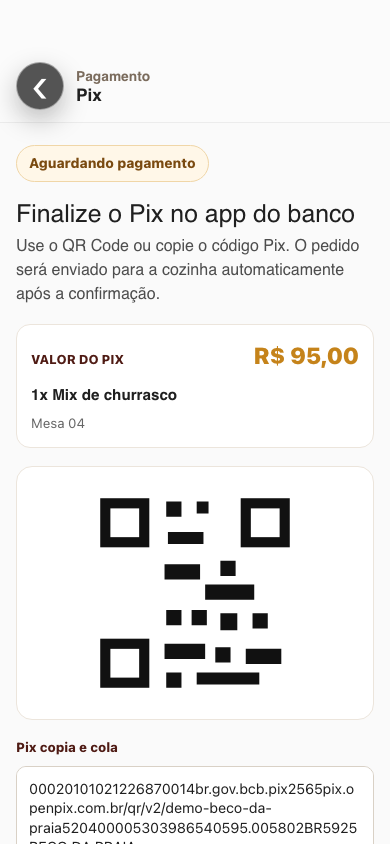
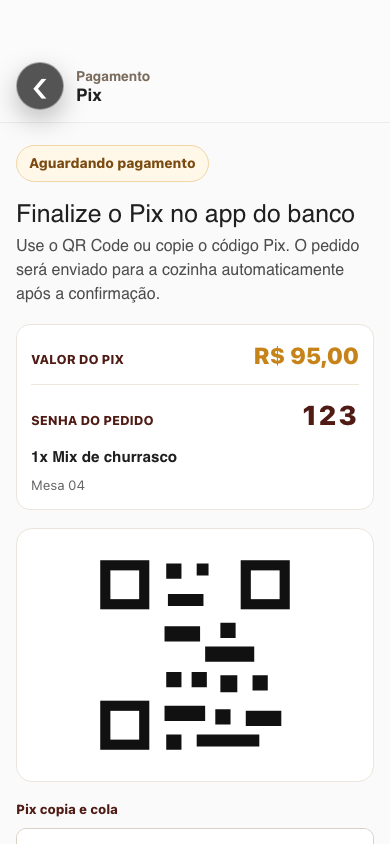
feat: add numeric order password

diff --git a/orders.js b/orders.js
@@ -183,15 +183,18 @@
                 <h2>Pedido enviado para a cozinha</h2>
                 <p>Agora é só aguardar. A equipe já recebeu os detalhes do seu pedido.</p>
                 <div class="sucesso-pedido">
-                    <span>Número do pedido</span>
-                    <strong id="sucesso-order-id"></strong>
+                    <span>Senha do pedido</span>
+                    <strong id="sucesso-order-password"></strong>
+                    <small>Número do pedido: <b id="sucesso-order-id"></b></small>
                 </div>
                 <div class="sucesso-orientacao" id="sucesso-orientacao"></div>
+                <button type="button" id="sucesso-salvar" class="sucesso-salvar">Salvar número do pedido</button>
                 <button type="button" id="sucesso-voltar" class="sucesso-voltar">Voltar ao cardápio</button>
             </div>
         `;
         document.getElementById('app').appendChild(success);
         document.getElementById('sucesso-voltar').addEventListener('click', backToMenu);
+        document.getElementById('sucesso-salvar').addEventListener('click', saveOrderNumber);
     }
 
     function showProductDetail() {
@@ -701,6 +704,7 @@
         if (detail) detail.style.display = 'none';
         if (paginaCardapio) paginaCardapio.style.display = 'none';
         setText('sucesso-order-id', orderData.orderId || '');
+        setText('sucesso-order-password', orderPassword(orderData.orderId));
         renderSuccessGuidance(orderData);
         document.getElementById('pix-status')?.classList.remove('pix-status-shimmer');
         success.style.display = 'block';
@@ -714,17 +718,43 @@
         const element = document.getElementById('sucesso-orientacao');
         if (!element) return;
         const isTakeaway = order.consumptionType === 'TAKEAWAY';
+        const password = orderPassword(order.orderId);
         const identity = isTakeaway
-            ? (order.customerName ? ` pelo nome ${escapeHtml(order.customerName)}` : ' pelo nome informado')
+            ? (password ? ` pela senha ${escapeHtml(password)}` : ' pela senha do pedido')
             : (order.tableNumber ? ` na mesa ${escapeHtml(order.tableNumber)}` : ' na sua mesa');
         const mainMessage = isTakeaway
-            ? `Enquanto seu pedido é preparado, nossa equipe chamará${identity} assim que estiver pronto.`
+            ? `Enquanto seu pedido é preparado, ele será chamado${identity} assim que estiver pronto.`
             : `Enquanto seu pedido é preparado, nossa equipe irá se apresentar${identity} e preparar a sua mesa.`;
         element.innerHTML = `
             <strong>Enquanto aguarda</strong>
             <p>${mainMessage}</p>
             <p>Bom apetite! A qualquer momento você pode chamar nossos atendentes.</p>
         `;
+    }
+
+    async function saveOrderNumber() {
+        const order = state.lastPixOrder || {};
+        const orderId = order.orderId || text(document.getElementById('sucesso-order-id'));
+        const password = orderPassword(orderId);
+        const content = `Beco da Praia\nPedido: ${orderId}\nSenha: ${password}`;
+        try {
+            if (navigator.share) {
+                await navigator.share({ title: 'Pedido Beco da Praia', text: content });
+                return;
+            }
+            if (navigator.clipboard) {
+                await navigator.clipboard.writeText(content);
+                return;
+            }
+        } catch (error) {
+            // Fall back to file download below.
+        }
+        const blob = new Blob([content], { type: 'text/plain;charset=utf-8' });
+        const link = document.createElement('a');
+        link.href = URL.createObjectURL(blob);
+        link.download = `pedido-${password || 'beco'}.txt`;
+        link.click();
+        URL.revokeObjectURL(link.href);
     }
 
     function setupPixOnlyNotice() {
@@ -760,10 +790,15 @@
         const location = order.consumptionType === 'LOCAL'
             ? `Mesa ${escapeHtml(order.tableNumber || '')}`
             : `Viagem${order.customerName ? ` - ${escapeHtml(order.customerName)}` : ''}`;
+        const password = orderPassword(order.orderId);
         summary.innerHTML = `
             <div>
                 <span>Valor do Pix</span>
                 <strong>${escapeHtml(order.totalText || formatCurrency(calculateTotal()))}</strong>
+            </div>
+            <div class="pix-senha">
+                <span>Senha do pedido</span>
+                <strong>${escapeHtml(password)}</strong>
             </div>
             <p>${items.map(item => `<span>${escapeHtml(item.quantity || 1)}x ${escapeHtml(item.name)}</span>`).join('') || escapeHtml(itemNames)}</p>
             <small>${location}</small>
@@ -790,6 +825,11 @@
         const date = new Date(value);
         if (Number.isNaN(date.getTime())) return '';
         return date.toLocaleTimeString('pt-BR', { hour: '2-digit', minute: '2-digit' });
+    }
+
+    function orderPassword(orderId) {
+        const digits = String(orderId || '').replace(/\D/g, '');
+        return digits.length <= 3 ? digits : digits.slice(-3);
     }
 
     function showCartMessage(message, error) {
@@ -973,7 +1013,7 @@
 
     function screenshotOrder() {
         return {
-            orderId: 'B1752607100000-DEMO01',
+            orderId: 'B1752607100000-123',
             status: 'PAYMENT_PENDING',
             consumptionType: 'LOCAL',
             tableNumber: '04',

diff --git a/style.css b/style.css
@@ -2192,6 +2192,18 @@
       font-weight: 900;
     }
 
+    .pix-resumo .pix-senha {
+      margin-top: 10px;
+      padding-top: 10px;
+      border-top: 1px solid #f0e8dd;
+    }
+
+    .pix-resumo .pix-senha strong {
+      color: #4f1b14;
+      font-size: 1.7rem;
+      letter-spacing: 0.08em;
+    }
+
     .pix-resumo p {
       margin: 10px 0 6px;
       color: #1f1f1f;
@@ -2362,7 +2374,16 @@
     .sucesso-pedido strong {
       margin-top: 6px;
       color: #1f1f1f;
-      font-size: 1.06rem;
+      font-size: 2rem;
+      word-break: break-word;
+    }
+
+    .sucesso-pedido small {
+      display: block;
+      margin-top: 6px;
+      color: #7a6b5c;
+      font-size: 0.78rem;
+      font-weight: 800;
       word-break: break-word;
     }
 
@@ -2398,17 +2419,28 @@
       font-weight: 800;
     }
 
+    .sucesso-salvar,
     .sucesso-voltar {
       width: 100%;
       min-height: 54px;
       border: none;
       border-radius: 999px;
-      color: #fff;
-      background: #C5831A;
-      box-shadow: 0 10px 24px rgba(197, 131, 26, 0.34);
       font-size: 1rem;
       font-weight: 800;
       cursor: pointer;
+    }
+
+    .sucesso-salvar {
+      margin-bottom: 12px;
+      color: #4f1b14;
+      background: #fff;
+      border: 1px solid #ece5dc;
+    }
+
+    .sucesso-voltar {
+      color: #fff;
+      background: #C5831A;
+      box-shadow: 0 10px 24px rgba(197, 131, 26, 0.34);
     }
 
     body.detalhe-produto-ativo .pedido-carrinho,

diff --git a/backend/src/main/java/com/becodapraia/orders/OrderPassword.java b/backend/src/main/java/com/becodapraia/orders/OrderPassword.java
@@ -1,0 +1,28 @@
+package com.becodapraia.orders;
+
+import java.time.Instant;
+import java.util.concurrent.ThreadLocalRandom;
+
+public final class OrderPassword {
+    private OrderPassword() {
+    }
+
+    public static String newOrderId() {
+        return "B" + Instant.now().toEpochMilli() + "-" + newPassword();
+    }
+
+    public static String newPassword() {
+        return "%03d".formatted(ThreadLocalRandom.current().nextInt(1000));
+    }
+
+    public static String fromOrderId(String orderId) {
+        if (orderId == null || orderId.isBlank()) {
+            return "";
+        }
+        String digits = orderId.replaceAll("\\D", "");
+        if (digits.length() < 3) {
+            return digits;
+        }
+        return digits.substring(digits.length() - 3);
+    }
+}

diff --git a/backend/src/test/java/com/becodapraia/orders/OrderPasswordTest.java b/backend/src/test/java/com/becodapraia/orders/OrderPasswordTest.java
@@ -1,0 +1,21 @@
+package com.becodapraia.orders;
+
+import org.junit.jupiter.api.Test;
+
+import static org.junit.jupiter.api.Assertions.assertEquals;
+import static org.junit.jupiter.api.Assertions.assertTrue;
+
+class OrderPasswordTest {
+    @Test
+    void createsOrderIdEndingWithThreeDigits() {
+        String orderId = OrderPassword.newOrderId();
+
+        assertTrue(orderId.matches("^B\\d+-\\d{3}$"));
+    }
+
+    @Test
+    void extractsLastThreeDigitsFromOrderId() {
+        assertEquals("123", OrderPassword.fromOrderId("B1752607100000-123"));
+        assertEquals("789", OrderPassword.fromOrderId("B1752607100000-A7B8C9"));
+    }
+}

diff --git a/backend/src/main/java/com/becodapraia/orders/OrderResource.java b/backend/src/main/java/com/becodapraia/orders/OrderResource.java
@@ -20,7 +20,6 @@ import java.math.BigDecimal;
 import java.time.Instant;
 import java.util.List;
 import java.util.Optional;
-import java.util.UUID;
 
 @Path("/orders")
 @Produces(MediaType.APPLICATION_JSON)
@@ -128,7 +127,7 @@ public class OrderResource {
     }
 
     private String newOrderId() {
-        return "B" + Instant.now().toEpochMilli() + "-" + UUID.randomUUID().toString().substring(0, 8).toUpperCase();
+        return OrderPassword.newOrderId();
     }
 
     private boolean isPix(String paymentMethod) {

diff --git a/printer-agent/src/main/java/com/becodapraia/printer/EscPosPrinter.java b/printer-agent/src/main/java/com/becodapraia/printer/EscPosPrinter.java
@@ -29,6 +29,7 @@ public class EscPosPrinter {
             write(out, "------------------------------\n");
             out.write(new byte[]{0x1B, 0x61, 0x00});
             write(out, "Pedido: " + safe(order.orderId()) + "\n");
+            write(out, "Senha: " + safe(OrderPassword.fromOrderId(order.orderId())) + "\n");
             if ("LOCAL".equalsIgnoreCase(safe(order.consumptionType()))) {
                 write(out, "Consumo: Local\n");
                 write(out, "Mesa: " + safe(order.tableNumber()) + "\n");

diff --git a/printer-agent/src/test/java/com/becodapraia/printer/EscPosPrinterTest.java b/printer-agent/src/test/java/com/becodapraia/printer/EscPosPrinterTest.java
@@ -38,6 +38,7 @@ class EscPosPrinterTest {
             String ticket = new String(received.get(5, TimeUnit.SECONDS), Charset.forName("CP850"));
             assertTrue(ticket.contains("BECO DA PRAIA"));
             assertTrue(ticket.contains("Pedido: B123"));
+            assertTrue(ticket.contains("Senha: 123"));
             assertTrue(ticket.contains("Consumo: Local"));
             assertTrue(ticket.contains("Mesa: 04"));
             assertTrue(ticket.contains("Pagamento: Pix"));

diff --git a/printer-agent/src/main/java/com/becodapraia/printer/OrderPassword.java b/printer-agent/src/main/java/com/becodapraia/printer/OrderPassword.java
@@ -1,0 +1,17 @@
+package com.becodapraia.printer;
+
+public final class OrderPassword {
+    private OrderPassword() {
+    }
+
+    public static String fromOrderId(String orderId) {
+        if (orderId == null || orderId.isBlank()) {
+            return "";
+        }
+        String digits = orderId.replaceAll("\\D", "");
+        if (digits.length() < 3) {
+            return digits;
+        }
+        return digits.substring(digits.length() - 3);
+    }
+}

diff --git a/README.md b/README.md
@@ -53,6 +53,7 @@ Cliente no celular
 9. O backend cria uma cobranca dinamica na OpenPix/Woovi e retorna QR Code/copia-e-cola.
 10. O webhook da OpenPix/Woovi confirma o pagamento e libera a impressao.
 11. O Raspberry Pi recebe a mensagem e imprime na cozinha.
+12. O cliente acompanha pela senha do pedido, formada pelos 3 ultimos digitos numericos do pedido.
 
 ### Fluxo visual do pedido
 
@@ -77,6 +78,7 @@ O fluxo de pedido respeita regras especificas para evitar pedidos incompletos:
 - Itens disponiveis para compra exibem a tag visual `Pedido online`.
 - Pedidos online e direto da mesa aceitam somente pagamento via Pix.
 - Pedido para comer no local exige mesa; pedido para viagem exige nome para retirada.
+- A senha exibida ao cliente e impressa na cozinha usa os 3 ultimos digitos numericos do pedido.
 - Pratos com carne exigem escolha do ponto quando necessario: ao ponto, bem passado ou mal passado.
 - Arrumadinho e Panelinha de Lingua nao exigem ponto da carne.
 - Porcoes com preco meia/inteira exigem escolha do tamanho antes de adicionar ao carrinho.
